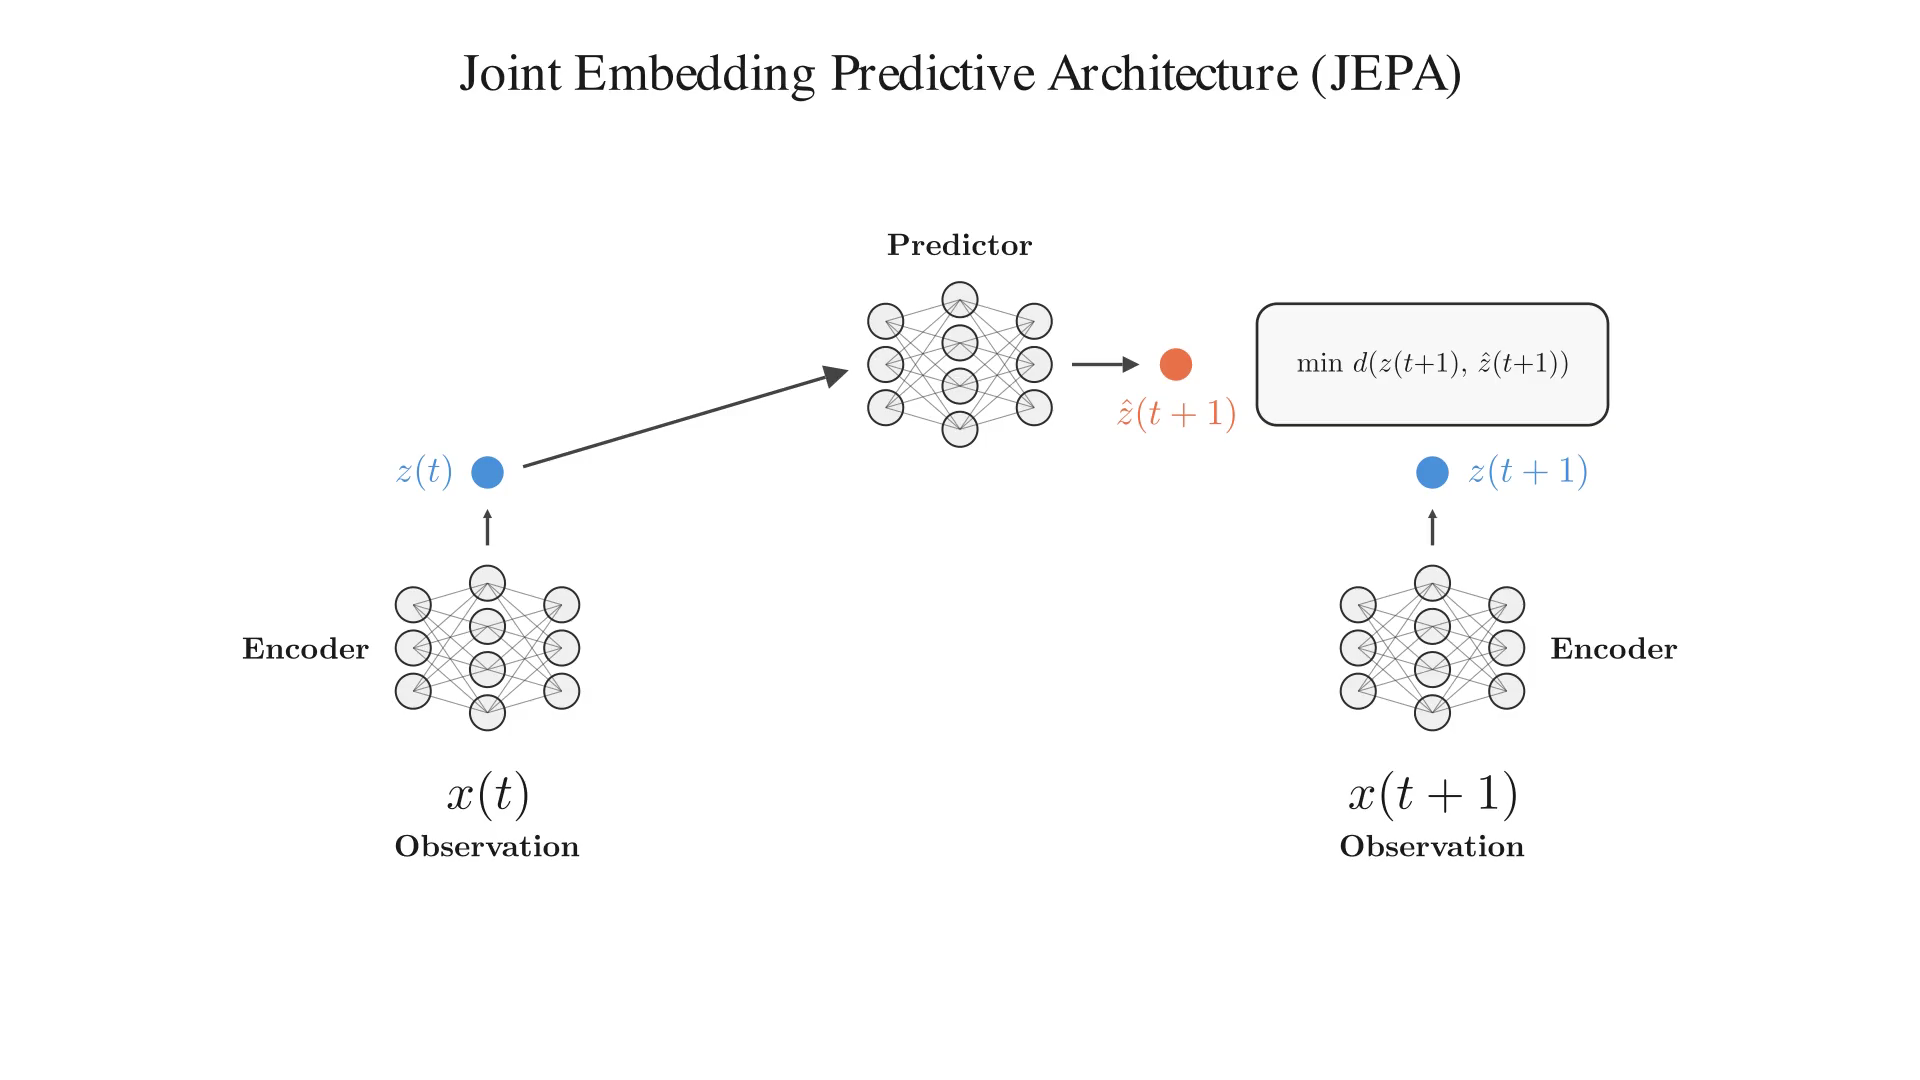
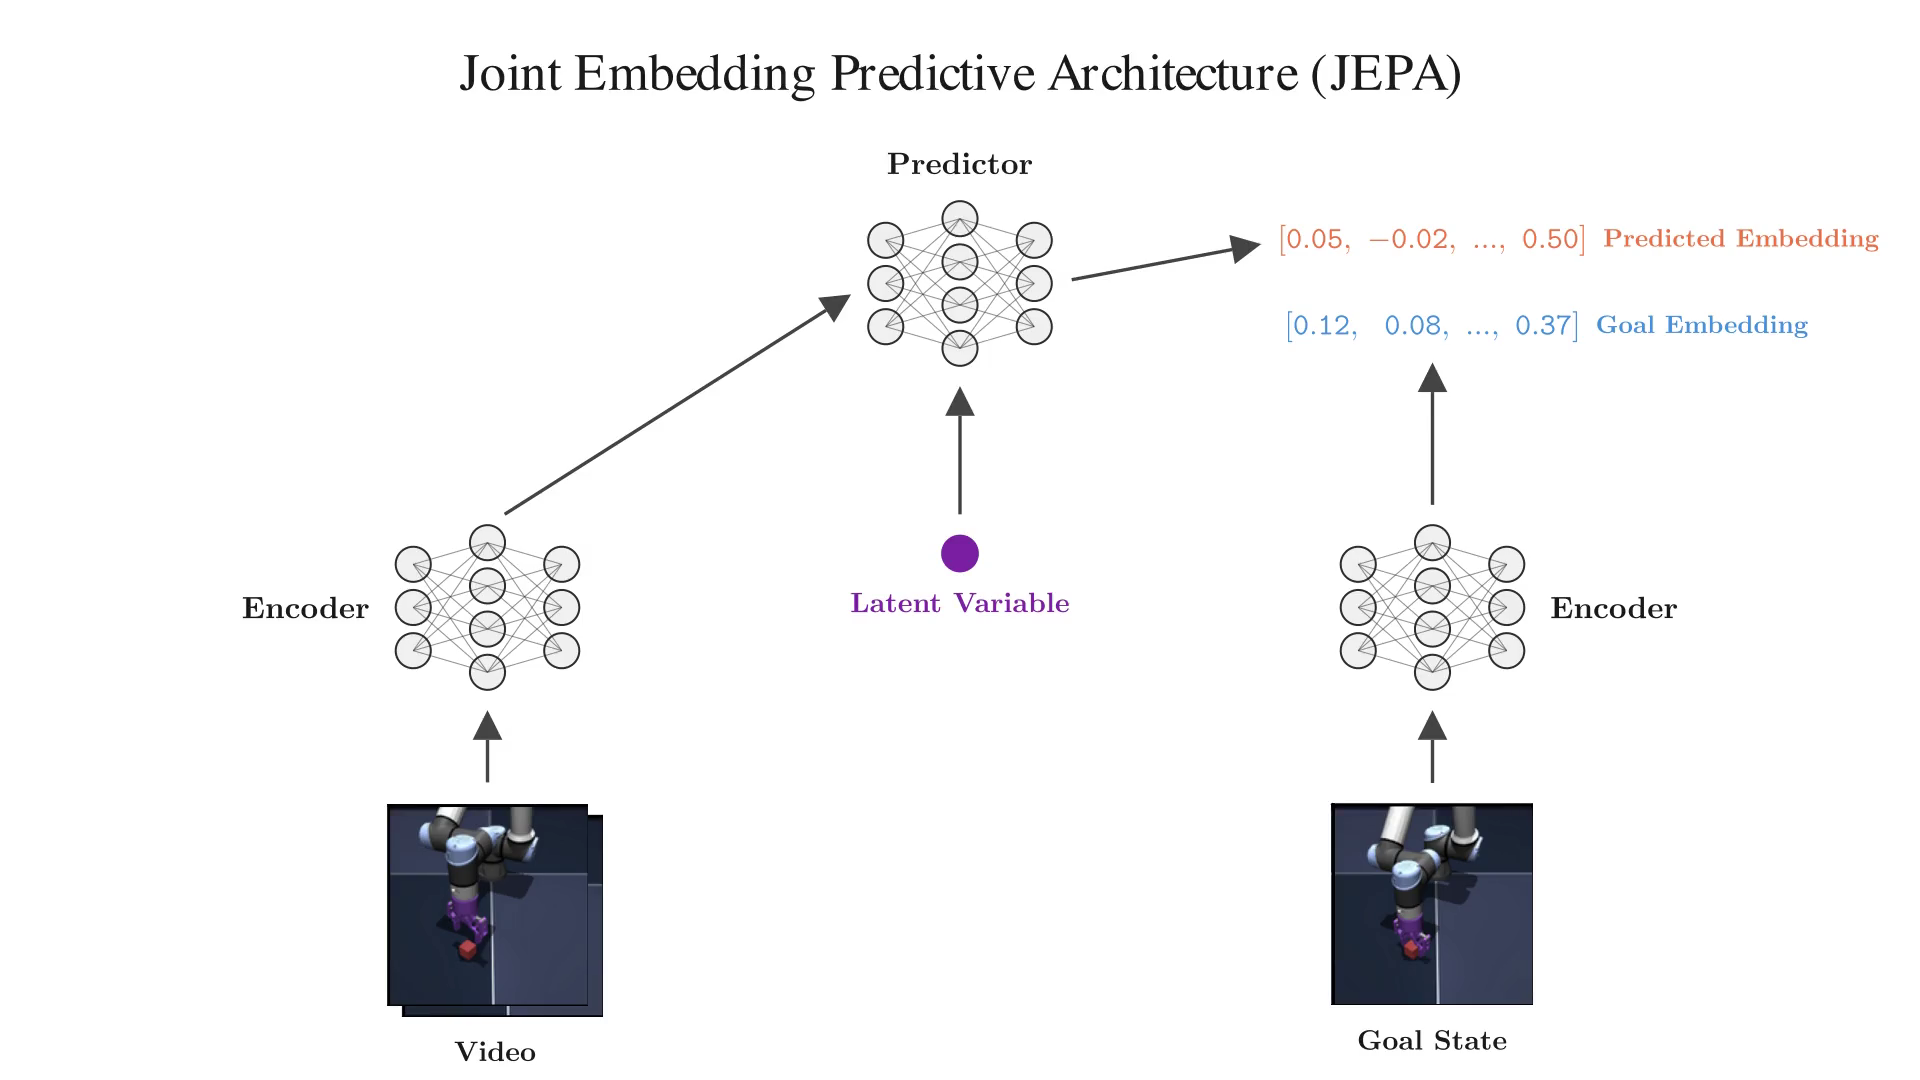
update JEPA introduction animation
add frame sequence input, goal state and latent variable

diff --git a/animations/jepa_training.py b/animations/jepa_training.py
@@ -1,195 +1,212 @@
 from manim import *
+import numpy as np
 
 
 class JEPATraining(Scene):
     def construct(self):
-        # White background
         self.camera.background_color = WHITE
 
-        # Colors
-        TEXT_COLOR = "#1a1a1a"
-        BOX_COLOR = "#2d2d2d"
-        ARROW_COLOR = "#444444"
-        EMBED_COLOR = "#4A90D9"
-        PRED_COLOR = "#E8704A"
-        LOSS_COLOR = "#5BA85A"
-        NODE_FILL = "#f0f0f0"
-        NODE_STROKE = "#2d2d2d"
+        TEXT_COLOR    = "#1a1a1a"
+        ARROW_COLOR   = "#444444"
+        EMBED_COLOR   = "#4A90D9"
+        PRED_COLOR    = "#E8704A"
+        LATENT_COLOR  = "#7B1FA2"
+        NODE_FILL     = "#f0f0f0"
+        NODE_STROKE   = "#2d2d2d"
+
+        # Layout constants
+        ENC_Y   = -0.50
+        Z_Y     =  0.78
+        PRED_Y  =  1.90
+        FRAME_Y = -2.70
 
         # ── Title ──────────────────────────────────────────────────────────────
         title = Text(
             "Joint Embedding Predictive Architecture (JEPA)",
-            font_size=28,
-            color=TEXT_COLOR,
+            font_size=28, color=TEXT_COLOR,
         ).to_edge(UP, buff=0.4)
         self.play(Write(title), run_time=0.8)
         self.wait(0.3)
 
-        # ── Helper: draw a small neural-net icon ───────────────────────────────
-        def make_nn(layers=(3, 4, 3), node_r=0.13, h_gap=0.55, v_gap=0.32,
-                    fill=NODE_FILL, stroke=NODE_STROKE):
-            """Returns a VGroup of nodes + edges for a small NN diagram."""
+        # ── Helper: neural-net icon ────────────────────────────────────────────
+        def make_nn(layers=(3, 4, 3), node_r=0.13, h_gap=0.55, v_gap=0.32):
             grp = VGroup()
             node_cols = []
             for col_i, n in enumerate(layers):
                 col = VGroup()
                 for row_i in range(n):
-                    c = Circle(radius=node_r, fill_color=fill,
-                               fill_opacity=1, stroke_color=stroke,
+                    c = Circle(radius=node_r, fill_color=NODE_FILL,
+                               fill_opacity=1, stroke_color=NODE_STROKE,
                                stroke_width=1.5)
-                    c.move_to(
-                        RIGHT * col_i * h_gap +
-                        UP * (row_i - (n - 1) / 2) * v_gap
-                    )
+                    c.move_to(RIGHT * col_i * h_gap +
+                              UP * (row_i - (n - 1) / 2) * v_gap)
                     col.add(c)
                 node_cols.append(col)
                 grp.add(col)
-            # edges
             edges = VGroup()
             for i in range(len(node_cols) - 1):
                 for a in node_cols[i]:
                     for b in node_cols[i + 1]:
-                        e = Line(a.get_center(), b.get_center(),
-                                 stroke_color=stroke, stroke_width=0.8,
-                                 stroke_opacity=0.5)
-                        edges.add(e)
+                        edges.add(Line(a.get_center(), b.get_center(),
+                                       stroke_color=NODE_STROKE,
+                                       stroke_width=0.8, stroke_opacity=0.5))
             grp.add(edges)
             return grp
 
-        # ── Encoder left (context) ─────────────────────────────────────────────
-        enc_left = make_nn()
-        enc_left.move_to(LEFT * 3.5 + DOWN * 0.8)
+        # ── Helper: stacked video frames with real images ──────────────────────
+        ASSETS = "/Users/julian/Documents/tum/lewm-seminar/assets"
 
-        obs_left = MathTex(r"x(t)", color=TEXT_COLOR, font_size=36)
-        obs_left.next_to(enc_left, DOWN, buff=0.3)
-        obs_label_left = Tex(r"\textbf{\textsc{Observation}}", color=TEXT_COLOR, font_size=22)
-        obs_label_left.next_to(obs_left, DOWN, buff=0.1)
-        enc_label_left = Tex(r"\textbf{\textsc{Encoder}}", color=TEXT_COLOR, font_size=22)
+        def make_image_frame(path, anchor, fw=1.5):
+            img = ImageMobject(path)
+            img.set_width(fw)
+            img.move_to(anchor)
+            return Group(img)
+
+        def make_frame_stack(anchor, img_paths, n_behind=2, fw=1.5):
+            """Front image at anchor; ghost frames behind-right use earlier imgs."""
+            stack = Group()
+            for i in range(n_behind, 0, -1):
+                offset = RIGHT * 0.11 * i + DOWN * 0.08 * i
+                ghost = make_image_frame(img_paths[-(i + 1)],
+                                         anchor + offset, fw)
+                ghost.set_opacity(0.45 + 0.20 * (n_behind - i))
+                stack.add(ghost)
+            stack.add(make_image_frame(img_paths[-1], anchor, fw))
+            return stack
+
+        # ── Encoders ───────────────────────────────────────────────────────────
+        enc_left = make_nn().move_to(LEFT * 3.5 + UP * ENC_Y)
+        enc_label_left = Tex(r"\textbf{\textsc{Encoder}}",
+                             color=TEXT_COLOR, font_size=22)
         enc_label_left.next_to(enc_left, LEFT, buff=0.2)
 
-        # ── Encoder right (target) ─────────────────────────────────────────────
-        enc_right = make_nn()
-        enc_right.move_to(RIGHT * 3.5 + DOWN * 0.8)
-
-        obs_right = MathTex(r"x(t+1)", color=TEXT_COLOR, font_size=36)
-        obs_right.next_to(enc_right, DOWN, buff=0.3)
-        obs_label_right = Tex(r"\textbf{\textsc{Observation}}", color=TEXT_COLOR, font_size=22)
-        obs_label_right.next_to(obs_right, DOWN, buff=0.1)
-        enc_label_right = Tex(r"\textbf{\textsc{Encoder}}", color=TEXT_COLOR, font_size=22)
+        enc_right = make_nn().move_to(RIGHT * 3.5 + UP * ENC_Y)
+        enc_label_right = Tex(r"\textbf{\textsc{Encoder}}",
+                              color=TEXT_COLOR, font_size=22)
         enc_label_right.next_to(enc_right, RIGHT, buff=0.2)
 
-        # ── Predictor (centre-top) ─────────────────────────────────────────────
-        pred_nn = make_nn(layers=(3, 4, 3))
-        pred_nn.move_to(UP * 1.3)
-        pred_label = Tex(r"\textbf{\textsc{Predictor}}", color=TEXT_COLOR, font_size=22)
+        # ── Video / goal frames ────────────────────────────────────────────────
+        context_imgs = [f"{ASSETS}/ur_frame_0.png",
+                        f"{ASSETS}/ur_frame_1.png"]
+        frame_left  = make_frame_stack(LEFT  * 3.5 + UP * FRAME_Y,
+                                       img_paths=context_imgs, n_behind=1)
+        frame_right = make_frame_stack(RIGHT * 3.5 + UP * FRAME_Y,
+                                       img_paths=[f"{ASSETS}/ur_goal.png"], n_behind=0)
+
+        video_label = Tex(r"\textbf{Video}", color=TEXT_COLOR, font_size=20)
+        video_label.next_to(frame_left, DOWN, buff=0.18)
+
+        goal_label = Tex(r"\textbf{Goal State}", color=TEXT_COLOR, font_size=20)
+        goal_label.next_to(frame_right, DOWN, buff=0.18)
+
+        # ── Predictor ──────────────────────────────────────────────────────────
+        pred_nn = make_nn(layers=(3, 4, 3)).move_to(UP * PRED_Y)
+        pred_label = Tex(r"\textbf{\textsc{Predictor}}",
+                         color=TEXT_COLOR, font_size=22)
         pred_label.next_to(pred_nn, UP, buff=0.2)
 
-        # ── Loss box ──────────────────────────────────────────────────────────
-        loss_box = RoundedRectangle(
-            width=2.6, height=0.9,
-            corner_radius=0.15,
-            fill_color="#f8f8f8",
-            fill_opacity=1,
-            stroke_color=BOX_COLOR,
-            stroke_width=2,
-        ).move_to(RIGHT * 3.5 + UP * 1.3)
-        loss_text = MathTex(
-            r"\min\,d\!\left(z(t{+}1),\, \hat{z}(t{+}1)\right)",
-            color=TEXT_COLOR, font_size=20,
-        )
-        loss_text.move_to(loss_box.get_center())
+        # ── Vector comparison ──────────────────────────────────────────────────
+        vcenter = RIGHT * 3.5 + UP * PRED_Y
 
-        # ── Latent embedding dots ──────────────────────────────────────────────
-        def latent_dot(color):
-            return Dot(radius=0.12, color=color, fill_opacity=1)
+        pred_vec = MathTex(r"\mathtt{[0.05,\ -0.02,\ ...,\ 0.50]}",
+                           color=PRED_COLOR, font_size=22
+                           ).move_to(vcenter + UP * 0.32)
+        pred_vec_label = Tex(r"\textbf{Predicted Embedding}",
+                             color=PRED_COLOR, font_size=18
+                             ).next_to(pred_vec, RIGHT, buff=0.15)
 
-        # z_ctx sits directly above enc_left; z_tgt directly above enc_right
-        z_ctx = latent_dot(EMBED_COLOR).move_to(LEFT * 3.5 + UP * 0.5)
-        z_tgt = latent_dot(EMBED_COLOR).move_to(RIGHT * 3.5 + UP * 0.5)
-        z_pred = latent_dot(PRED_COLOR).move_to(RIGHT * 1.6 + UP * 1.3)
+        goal_vec = MathTex(r"\mathtt{[0.12,\ \ 0.08,\ ...,\ 0.37]}",
+                           color=EMBED_COLOR, font_size=22
+                           ).move_to(vcenter + DOWN * 0.32)
+        goal_vec_label = Tex(r"\textbf{Goal Embedding}",
+                             color=EMBED_COLOR, font_size=18
+                             ).next_to(goal_vec, RIGHT, buff=0.15)
 
-        z_ctx_label = MathTex(r"z(t)", color=EMBED_COLOR, font_size=26)
-        z_ctx_label.next_to(z_ctx, LEFT, buff=0.15)
-        z_tgt_label = MathTex(r"z(t+1)", color=EMBED_COLOR, font_size=26)
-        z_tgt_label.next_to(z_tgt, RIGHT, buff=0.15)
-        z_pred_label = MathTex(r"\hat{z}(t+1)", color=PRED_COLOR, font_size=26)
-        z_pred_label.next_to(z_pred, DOWN, buff=0.12)
-
-        # ── Arrows ────────────────────────────────────────────────────────────
+        # ── Arrows ─────────────────────────────────────────────────────────────
         def make_arrow(start, end, color=ARROW_COLOR):
-            return Arrow(
-                start, end, buff=0.15,
-                stroke_color=color, stroke_width=2.5,
-                tip_length=0.18, max_stroke_width_to_length_ratio=999,
-                color=color,
-            )
+            return Arrow(start, end, buff=0.15,
+                         stroke_color=color, stroke_width=2.5,
+                         tip_length=0.22,
+                         max_tip_length_to_length_ratio=1.0,
+                         color=color)
 
-        arr_obs_left = make_arrow(obs_left.get_top(), enc_left.get_bottom())
-        arr_obs_right = make_arrow(obs_right.get_top(), enc_right.get_bottom())
+        # Force vertical alignment using encoder x-center
+        lx = enc_left.get_center()[0]
+        rx = enc_right.get_center()[0]
+        arr_frame_left  = make_arrow(
+            np.array([lx, frame_left.get_top()[1],  0]),
+            np.array([lx, enc_left.get_bottom()[1], 0]),
+        )
+        arr_frame_right = make_arrow(
+            np.array([rx, frame_right.get_top()[1],  0]),
+            np.array([rx, enc_right.get_bottom()[1], 0]),
+        )
+        arr_enc_left_pred     = make_arrow(enc_left.get_top(),      pred_nn.get_left())
+        arr_pred_to_compare   = make_arrow(pred_nn.get_right(),     pred_vec.get_left())
+        arr_enc_right_compare = make_arrow(enc_right.get_top(),     goal_vec.get_bottom())
 
-        # Encoders → latent dots: straight up
-        arr_enc_left_z = make_arrow(enc_left.get_top(), z_ctx.get_bottom())
-        arr_enc_right_z = make_arrow(enc_right.get_top(), z_tgt.get_bottom())
+        # Latent variable: dot + label below predictor
+        latent_dot = Dot(radius=0.14, color=LATENT_COLOR, fill_opacity=1)
+        latent_dot.move_to(DOWN * 0.10)
+        latent_var = Tex(r"\textbf{Latent Variable}", color=LATENT_COLOR, font_size=20)
+        latent_var.next_to(latent_dot, DOWN, buff=0.15)
+        arr_latent_pred = make_arrow(latent_dot.get_top(), pred_nn.get_bottom())
 
-        arr_z_pred_input = make_arrow(z_ctx.get_right(), pred_nn.get_left())
-        arr_pred_z_out = make_arrow(pred_nn.get_right(), z_pred.get_left())
-
-        # ── Stage 1: Observations & Encoders ─────────────────────────────────
+        # ── Stage 1: frames appear ────────────────────────────────────────────
         self.play(
             LaggedStart(
-                AnimationGroup(FadeIn(obs_left), FadeIn(obs_label_left)),
-                AnimationGroup(FadeIn(obs_right), FadeIn(obs_label_right)),
+                AnimationGroup(FadeIn(frame_left),  FadeIn(video_label)),
+                AnimationGroup(FadeIn(frame_right), FadeIn(goal_label)),
                 lag_ratio=0.3,
             ),
-            run_time=0.8,
+            run_time=1.0,
         )
         self.wait(0.2)
 
+        # ── Stage 2: encoders ────────────────────────────────────────────────
         self.play(
             LaggedStart(
-                AnimationGroup(GrowArrow(arr_obs_left), Create(enc_left),
-                               FadeIn(enc_label_left)),
-                AnimationGroup(GrowArrow(arr_obs_right), Create(enc_right),
-                               FadeIn(enc_label_right)),
+                AnimationGroup(GrowArrow(arr_frame_left),
+                               Create(enc_left), FadeIn(enc_label_left)),
+                AnimationGroup(GrowArrow(arr_frame_right),
+                               Create(enc_right), FadeIn(enc_label_right)),
                 lag_ratio=0.3,
             ),
             run_time=1.2,
         )
         self.wait(0.3)
 
-        # ── Stage 2: Latent embeddings flow out ──────────────────────────────
+        # ── Stage 3: predictor ───────────────────────────────────────────────
         self.play(
-            LaggedStart(
-                AnimationGroup(GrowArrow(arr_enc_left_z),
-                               FadeIn(z_ctx), Write(z_ctx_label)),
-                AnimationGroup(GrowArrow(arr_enc_right_z),
-                               FadeIn(z_tgt), Write(z_tgt_label)),
-                lag_ratio=0.4,
-            ),
-            run_time=1.0,
-        )
-        self.wait(0.3)
-
-        # ── Stage 3: Predictor ───────────────────────────────────────────────
-        self.play(
-            GrowArrow(arr_z_pred_input),
+            GrowArrow(arr_enc_left_pred),
             Create(pred_nn),
             FadeIn(pred_label),
             run_time=1.0,
         )
         self.play(
-            GrowArrow(arr_pred_z_out),
-            FadeIn(z_pred),
-            Write(z_pred_label),
+            FadeIn(latent_dot),
+            FadeIn(latent_var),
+            GrowArrow(arr_latent_pred),
             run_time=0.8,
+        )
+        self.play(
+            LaggedStart(
+                GrowArrow(arr_pred_to_compare),
+                GrowArrow(arr_enc_right_compare),
+                lag_ratio=0.4,
+            ),
+            run_time=0.9,
         )
         self.wait(0.3)
 
-        # ── Stage 4: Loss ────────────────────────────────────────────────────
+        # ── Stage 4: vector comparison ───────────────────────────────────────
         self.play(
-            FadeIn(loss_box), FadeIn(loss_text),
-            run_time=0.8,
+            LaggedStart(
+                AnimationGroup(FadeIn(pred_vec), FadeIn(pred_vec_label)),
+                AnimationGroup(FadeIn(goal_vec), FadeIn(goal_vec_label)),
+                lag_ratio=0.5,
+            ),
+            run_time=0.9,
         )
         self.wait(0.4)
-
         self.wait(1.0)

diff --git a/presentation.py b/presentation.py
@@ -327,9 +327,20 @@ def jepa_principle_animation_slide():
     import sys as _sys
     import marimo as _mo
     if _sys.platform != "emscripten":
-        _sys.path.insert(0, str(__import__("pathlib").Path(__file__).parent))
+        import pathlib as _pathlib, subprocess as _sp
+        _sys.path.insert(0, str(_pathlib.Path(__file__).parent))
         from animations.jepa_training import JEPATraining
         _video = render_scene(JEPATraining)
+        # Keep the last frame in sync for the following static slides
+        _mp4  = _pathlib.Path(__file__).parent / "media/videos/jepa_training/1080p60/JEPATraining.mp4"
+        _frame = _pathlib.Path(__file__).parent / "media/images/jepa_final_frame.png"
+        _frame.parent.mkdir(parents=True, exist_ok=True)
+        if _mp4.exists() and (not _frame.exists() or _mp4.stat().st_mtime > _frame.stat().st_mtime):
+            _sp.run(
+                ["ffmpeg", "-sseof", "-0.1", "-i", str(_mp4),
+                 "-frames:v", "1", str(_frame), "-y"],
+                capture_output=True,
+            )
     else:
         _video = _mo.Html(
             f'<video autoplay muted style="{VIDEO_STYLE}">'
@@ -588,11 +599,6 @@ def outline_recap_after_sota():
             gap="0.5rem",
         )
     _()
-    return
-
-
[email redacted]
-def _():
     return
 
 
@@ -1266,11 +1272,6 @@ def bibliography_slide_2(BIB_TEXT, mo):
         ], align="start")
 
     _()
-    return
-
-
[email redacted]
-def _():
     return
 
 